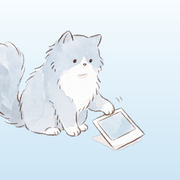
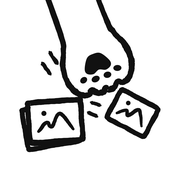
앱 이름을 Poof로, 로고와 파비콘을 새 두들로

diff --git a/en/terms.html b/en/terms.html
@@ -3,7 +3,7 @@
 <head>
 <meta charset="utf-8">
 <meta name="viewport" content="width=device-width, initial-scale=1">
-<title>Hulhul Terms of Use</title>
+<title>Poof Terms of Use</title>
 <link rel="icon" type="image/png" href="../assets/brand/favicon-64.png">
 <link rel="apple-touch-icon" href="../assets/brand/apple-touch-icon.png">
 <style>
@@ -24,14 +24,14 @@
 </head>
 <body>
 <main>
-  <a class="back" href="../index.html">← Hulhul</a>
+  <a class="back" href="../index.html">← Poof</a>
   <h1>Terms of Use</h1>
   <p class="date">Effective September 22, 2026</p>
 
   <p>한국어: <a href="../terms.html">이용약관</a></p>
 
   <h2>1. The service</h2>
-  <p>Hulhul (the "app") is an iOS app that finds photos of a person you choose in your photo library
+  <p>Poof (the "app") is an iOS app that finds photos of a person you choose in your photo library
   and helps you delete or hide the photos you review and select. It is provided by ForgeLab (Representative Jason Lee).</p>
 
   <h2>2. Responsibility for deletion</h2>
@@ -46,7 +46,7 @@
   <p>The app is free to download. For free, you can search and review without limit and clear (let go of or seal)
   up to 50 photos in total. To clear more, you can buy one of the following.</p>
   <ul>
-    <li>Hulhul Pro subscription (monthly or yearly, auto-renewable): removes the limit on clearing and unlocks searching originals stored only in iCloud.
+    <li>Poof Pro subscription (monthly or yearly, auto-renewable): removes the limit on clearing and unlocks searching originals stored only in iCloud.
     The subscription renews automatically at the same price unless canceled at least 24 hours before the end of the current period, and payment is charged to your Apple Account.
     You can cancel anytime in Settings &gt; Apple Account &gt; Subscriptions; after canceling you keep access until the end of the period you paid for.</li>
     <li>100 Photos Pack (consumable, one-time purchase): each purchase adds 100 photos you can clear. The remaining count is stored only on the device you bought it on,
@@ -67,13 +67,13 @@
   <p>If these terms change, we will post the update on this page.</p>
 
   <h2>7. Contact</h2>
-  <p style="margin-top:4px;"><a href="mailto:forgelab.aitech@gmail.com?subject=%5BHulhul%5D%20Question" style="background:var(--breeze); color:#fff; padding:10px 18px; border-radius:10px; font-weight:600; text-decoration:none;">✉ Contact</a></p>
+  <p style="margin-top:4px;"><a href="mailto:forgelab.aitech@gmail.com?subject=%5BPoof%5D%20Question" style="background:var(--breeze); color:#fff; padding:10px 18px; border-radius:10px; font-weight:600; text-decoration:none;">✉ Contact</a></p>
 
   <footer style="margin-top:56px; padding-top:28px; border-top:1px solid #E3EBF1;
                  display:flex; align-items:center; gap:16px; flex-wrap:wrap; font-size:14px; color:var(--haze);">
     <a href="privacy.html" style="color:var(--haze);">Privacy Policy</a>
     <a href="terms.html" style="color:var(--haze);">Terms of Use</a>
-    <a href="mailto:forgelab.aitech@gmail.com?subject=%5BHulhul%5D%20Question" style="background:var(--breeze); color:#fff; padding:8px 16px;
+    <a href="mailto:forgelab.aitech@gmail.com?subject=%5BPoof%5D%20Question" style="background:var(--breeze); color:#fff; padding:8px 16px;
        border-radius:10px; font-weight:600; text-decoration:none;">✉ Contact</a>
     <span style="margin-left:auto;">© 2026 ForgeLab</span>
     <span style="width:100%; font-size:13px;">ForgeLab, Representative Jason Lee</span>

diff --git a/en/privacy.html b/en/privacy.html
@@ -3,7 +3,7 @@
 <head>
 <meta charset="utf-8">
 <meta name="viewport" content="width=device-width, initial-scale=1">
-<title>Hulhul Privacy Policy</title>
+<title>Poof Privacy Policy</title>
 <link rel="icon" type="image/png" href="../assets/brand/favicon-64.png">
 <link rel="apple-touch-icon" href="../assets/brand/apple-touch-icon.png">
 <style>
@@ -24,11 +24,11 @@
 </head>
 <body>
 <main>
-  <a class="back" href="../index.html">← Hulhul</a>
+  <a class="back" href="../index.html">← Poof</a>
   <h1>Privacy Policy</h1>
   <p class="date">Effective September 22, 2026</p>
 
-  <p>Hulhul (the "app") is provided by ForgeLab (Representative Jason Lee). In short:
+  <p>Poof (the "app") is provided by ForgeLab (Representative Jason Lee). In short:
   <strong>the app does not collect any personal information.</strong> 한국어: <a href="../privacy.html">개인정보 처리방침</a></p>
 
   <h2>1. Information we collect</h2>
@@ -49,7 +49,7 @@
   None of these values leave your device.</p>
 
   <h2>4. Payments</h2>
-  <p>The Hulhul Pro subscription and the 100 Photos Pack are sold through Apple App Store in-app purchase. Apple handles the payment,
+  <p>The Poof Pro subscription and the 100 Photos Pack are sold through Apple App Store in-app purchase. Apple handles the payment,
   and the app never sees your payment details. Refunds follow Apple's policies.</p>
 
   <h2>5. Sharing with third parties</h2>
@@ -63,13 +63,13 @@
 
   <h2>8. Contact</h2>
   <p>If you have questions, send them with the button below. We will reply as soon as we can.</p>
-  <p style="margin-top:12px;"><a href="mailto:forgelab.aitech@gmail.com?subject=%5BHulhul%5D%20Question" style="background:var(--breeze); color:#fff; padding:10px 18px; border-radius:10px; font-weight:600; text-decoration:none;">✉ Contact</a></p>
+  <p style="margin-top:12px;"><a href="mailto:forgelab.aitech@gmail.com?subject=%5BPoof%5D%20Question" style="background:var(--breeze); color:#fff; padding:10px 18px; border-radius:10px; font-weight:600; text-decoration:none;">✉ Contact</a></p>
 
   <footer style="margin-top:56px; padding-top:28px; border-top:1px solid #E3EBF1;
                  display:flex; align-items:center; gap:16px; flex-wrap:wrap; font-size:14px; color:var(--haze);">
     <a href="privacy.html" style="color:var(--haze);">Privacy Policy</a>
     <a href="terms.html" style="color:var(--haze);">Terms of Use</a>
-    <a href="mailto:forgelab.aitech@gmail.com?subject=%5BHulhul%5D%20Question" style="background:var(--breeze); color:#fff; padding:8px 16px;
+    <a href="mailto:forgelab.aitech@gmail.com?subject=%5BPoof%5D%20Question" style="background:var(--breeze); color:#fff; padding:8px 16px;
        border-radius:10px; font-weight:600; text-decoration:none;">✉ Contact</a>
     <span style="margin-left:auto;">© 2026 ForgeLab</span>
     <span style="width:100%; font-size:13px;">ForgeLab, Representative Jason Lee</span>

diff --git a/index.html b/index.html
@@ -3,7 +3,7 @@
 <head>
 <meta charset="utf-8">
 <meta name="viewport" content="width=device-width, initial-scale=1">
-<title>훌훌: 떠나보낸 사람의 사진, 훌훌 털어 보내기</title>
+<title>Poof: 떠나보낸 사람의 사진, 훌훌 털어 보내기</title>
 <link rel="icon" type="image/png" href="assets/brand/favicon-64.png">
 <link rel="apple-touch-icon" href="assets/brand/apple-touch-icon.png">
 <meta name="description" content="이별 후 사진 정리. 얼굴 하나로 그 사람이 담긴 사진을 모두 모아드려요. 고르기만 하면 훌훌. 모든 과정은 아이폰 안에서만.">
@@ -238,7 +238,7 @@
   <div class="nav-inner">
     <a class="logo" href="#">
       <img src="assets/brand/logo-96.png" alt="" width="27" height="27">
-      훌훌
+      Poof
     </a>
     <div class="nav-links">
       <a href="#how">이렇게 써요</a>
@@ -258,7 +258,7 @@
     <div class="hero-copy reveal in">
       <span class="eyebrow"><span class="dot"></span>이별 후 사진 정리, 100% 기기 안에서</span>
       <h1>떠나보낸 사람이<br>아직 <span class="hl">사진첩</span>에<br>남아 있나요?</h1>
-      <p class="sub">얼굴이 잘 나온 사진 한 장이면 충분해요. 그 사람이 담긴 사진을 모두 모아드릴게요. 고르기만 하면, <span class="breeze-text">훌훌</span>.</p>
+      <p class="sub">얼굴이 잘 나온 사진 한 장이면 충분해요. 그 사람이 담긴 사진을 모두 모아드릴게요. 고르기만 하면, <span class="breeze-text">Poof</span>.</p>
       <div class="hero-ctas">
         <a class="btn-primary" href="#" onclick="alert('App Store 출시 준비 중입니다!'); return false;">App Store에서 곧 만나요</a>
         <a class="ghost" href="#how">어떻게 쓰나요? ↓</a>
@@ -400,7 +400,7 @@
         <p>구독 없이 한 번 결제로 100장 더 정리해요</p>
       </div>
       <div class="price-card pro reveal from-right">
-        <div class="name breeze-text">훌훌 Pro 구독</div>
+        <div class="name breeze-text">Poof Pro 구독</div>
         <div class="price">월 ₩2,200 <span class="usd">/ $1.99</span></div>
         <div class="price-alt">연 ₩9,900 <span class="usd">/ $9.99</span></div>
         <p>장수 제한 없이 정리하고 iCloud 원본까지 찾아요. 언제든 해지할 수 있어요.</p>

diff --git a/terms.html b/terms.html
@@ -3,7 +3,7 @@
 <head>
 <meta charset="utf-8">
 <meta name="viewport" content="width=device-width, initial-scale=1">
-<title>훌훌 이용약관</title>
+<title>Poof 이용약관</title>
 <link rel="icon" type="image/png" href="assets/brand/favicon-64.png">
 <link rel="apple-touch-icon" href="assets/brand/apple-touch-icon.png">
 <style>
@@ -24,14 +24,14 @@
 </head>
 <body>
 <main>
-  <a class="back" href="index.html">← 훌훌</a>
+  <a class="back" href="index.html">← Poof</a>
   <h1>이용약관</h1>
   <p class="date">시행일: 2026년 9월 22일</p>
 
   <p>English: <a href="en/terms.html">Terms of Use</a></p>
 
   <h2>1. 서비스</h2>
-  <p>'훌훌'(이하 "앱")은 사용자의 사진 보관함에서 사용자가 고른 사람이 담긴 사진을 찾아,
+  <p>'Poof'(이하 "앱")은 사용자의 사진 보관함에서 사용자가 고른 사람이 담긴 사진을 찾아,
   사용자가 검토하고 선택한 사진을 삭제하거나 숨기도록 돕는 iOS 앱입니다.
   ForgeLab(대표 Jason Lee)이 제공합니다.</p>
 
@@ -47,7 +47,7 @@
   <p>앱은 무료로 내려받아 쓸 수 있습니다. 무료 범위에서는 찾기와 검토를 제한 없이,
   정리(털어내기, 봉인)는 누적 50장까지 할 수 있습니다. 그보다 많이 정리하려면 다음 가운데 하나를 구매합니다.</p>
   <ul>
-    <li>'훌훌 Pro' 구독(월간 또는 연간, 자동 갱신): 정리 장수 제한이 없고 iCloud에만 있는 원본까지 찾을 수 있습니다.
+    <li>'Poof Pro' 구독(월간 또는 연간, 자동 갱신): 정리 장수 제한이 없고 iCloud에만 있는 원본까지 찾을 수 있습니다.
     구독은 현재 기간이 끝나기 24시간 전까지 해지하지 않으면 같은 가격으로 자동 갱신되고, 요금은 Apple 계정으로 청구됩니다.
     해지는 기기의 설정 앱 &gt; Apple 계정 &gt; 구독에서 언제든 할 수 있으며, 해지해도 이미 결제한 기간이 끝날 때까지 쓸 수 있습니다.</li>
     <li>'100장 정리권'(소모성 1회 결제): 구매할 때마다 정리할 수 있는 장수가 100장 늘어납니다. 남은 장수는 구매한 기기에만 저장되어

diff --git a/privacy.html b/privacy.html
@@ -3,7 +3,7 @@
 <head>
 <meta charset="utf-8">
 <meta name="viewport" content="width=device-width, initial-scale=1">
-<title>훌훌 개인정보 처리방침</title>
+<title>Poof 개인정보 처리방침</title>
 <link rel="icon" type="image/png" href="assets/brand/favicon-64.png">
 <link rel="apple-touch-icon" href="assets/brand/apple-touch-icon.png">
 <style>
@@ -24,11 +24,11 @@
 </head>
 <body>
 <main>
-  <a class="back" href="index.html">← 훌훌</a>
+  <a class="back" href="index.html">← Poof</a>
   <h1>개인정보 처리방침</h1>
   <p class="date">시행일: 2026년 9월 22일</p>
 
-  <p>'훌훌'(이하 "앱")은 ForgeLab(대표 Jason Lee)이 제공합니다. 요약하면 이렇습니다.
+  <p>'Poof'(이하 "앱")은 ForgeLab(대표 Jason Lee)이 제공합니다. 요약하면 이렇습니다.
   <strong>앱은 어떤 개인정보도 수집하지 않습니다.</strong> English: <a href="en/privacy.html">Privacy Policy</a></p>
 
   <h2>1. 수집하는 정보</h2>
@@ -49,7 +49,7 @@
   이 값들은 기기 밖으로 전송되지 않습니다.</p>
 
   <h2>4. 결제</h2>
-  <p>'훌훌 Pro' 구독과 '100장 정리권'은 Apple App Store 인앱 결제로 처리합니다. 결제 정보는 Apple이 처리하며,
+  <p>'Poof Pro' 구독과 '100장 정리권'은 Apple App Store 인앱 결제로 처리합니다. 결제 정보는 Apple이 처리하며,
   앱은 결제 수단 정보에 접근할 수 없습니다. 환불은 Apple 정책을 따릅니다.</p>
 
   <h2>5. 제3자 제공</h2>

diff --git a/README.md b/README.md
@@ -1,13 +1,13 @@
-# 훌훌 (Hulhul) — 소개 사이트
+# Poof (옛 이름 훌훌) — 소개 사이트
 
 > 떠나보낸 사람이 아직 사진첩에 남아 있나요.
 > 얼굴 하나면 그 사람이 담긴 사진을 모두 찾아, 찾고 고르고 **훌훌** 털어 보내요.
 
-iOS 앱 **훌훌**의 랜딩 사이트입니다. 정적 HTML/CSS 한 벌로, 별도 빌드 없이 GitHub Pages로 배포됩니다.
+iOS 앱 **Poof**의 랜딩 사이트입니다(2026-09-29 훌훌에서 이름을 바꿨고, 주소는 그대로 hulhul-site). 정적 HTML/CSS 한 벌로, 별도 빌드 없이 GitHub Pages로 배포됩니다.
 
 **🔗 https://jsonpassion.github.io/hulhul-site/**
 
-## 훌훌은 어떤 앱인가요
+## Poof는 어떤 앱인가요
 
 이별한 뒤 사진첩에 남은 그 사람의 사진을, 얼굴 한 장으로 모두 찾아 한 번에 정리하도록 돕는 iOS 앱입니다.
 
@@ -34,7 +34,7 @@ iOS 앱 **훌훌**의 랜딩 사이트입니다. 정적 HTML/CSS 한 벌로, 별
 ## 브랜딩
 
 - **컨셉**: “훌훌 털기” — 지운 뒤의 가벼움. 깃털과 먼지가 바람에 날아가는 밝고 회복적인 톤.
-- **마크**: 하늘빛 타일 위의 수채 고양이가 발로 사진을 밀어내는 그림(2026-09 앱 아이콘과 같은 그림). 나비 로고, 파비콘, 홈 화면 아이콘은 `assets/brand/`에 있고 앱의 로고 타일에서 뽑았습니다.
+- **마크**: 흰 종이 위 흑백 두들. 고양이 발이 사진 더미 모서리에서 한 장을 톡 차서 떨어뜨리는 그림(2026-09-29 Poof로 이름을 바꾸며 새로 그림, 앱 아이콘과 같음). 나비 로고, 파비콘, 홈 화면 아이콘은 `assets/brand/`에 있다.
 - **컬러**: 산들바람 `#3D95C7` (라이트) / `#6FBBE6` (다크 계열 보조), 배경 솜구름 `#F7FAFC`, 본문 먹빛 `#22303B`.
 
 ## Lottie 재생성
